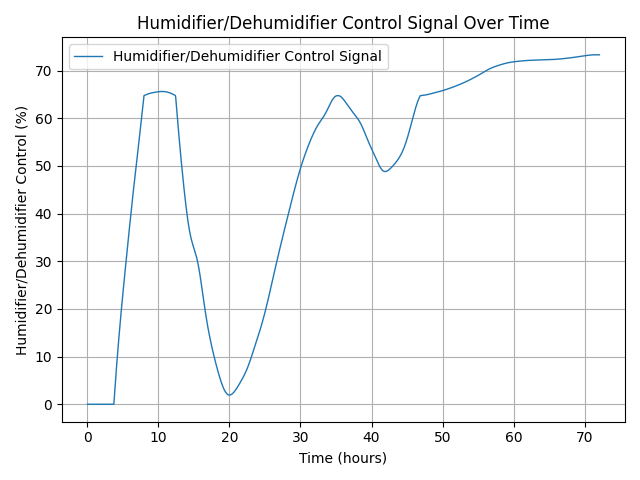
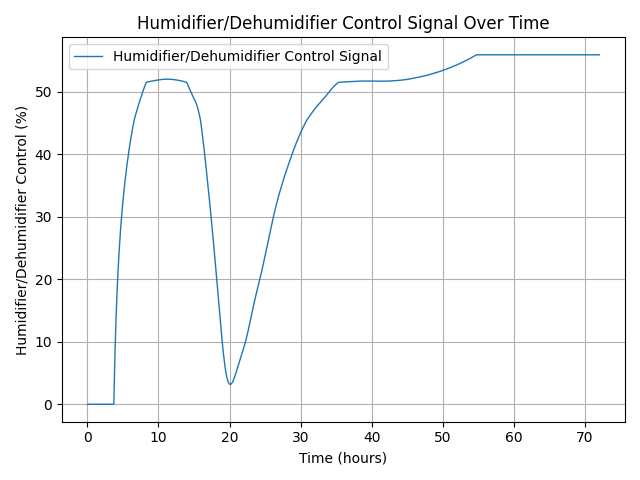
changes?

diff --git a/membership_functions.py b/membership_functions.py
@@ -35,9 +35,9 @@ ac_heater_power['off'] = fuzz.trimf(universes['ac_heater_power'], [-10, 0, 10])
 ac_heater_power['heating'] = fuzz.trapmf(universes['ac_heater_power'], [0, 25, mm.AC_HEATER_POWER_MAX, mm.AC_HEATER_POWER_MAX])
 
 humidifier_dehumidifier_power = ctrl.Consequent(universes['humidifier_dehumidifier_power'], 'humidifier_dehumidifier_power')
-humidifier_dehumidifier_power['dehumidifying'] = fuzz.trapmf(universes['humidifier_dehumidifier_power'], [mm.HUMIDIFIER_DEHUMIDIFIER_POWER_MAX, mm.HUMIDIFIER_DEHUMIDIFIER_POWER_MAX, -10, 0])
+humidifier_dehumidifier_power['dehumidifying'] = 1 - fuzz.trapmf(universes['humidifier_dehumidifier_power'], [-25, 0, mm.HUMIDIFIER_DEHUMIDIFIER_POWER_MAX, mm.HUMIDIFIER_DEHUMIDIFIER_POWER_MAX])
 humidifier_dehumidifier_power['off'] = fuzz.trimf(universes['humidifier_dehumidifier_power'], [-10, 0, 10])
-humidifier_dehumidifier_power['humidifying'] = fuzz.trapmf(universes['humidifier_dehumidifier_power'], [0, 10, mm.HUMIDIFIER_DEHUMIDIFIER_POWER_MAX, mm.HUMIDIFIER_DEHUMIDIFIER_POWER_MAX])
+humidifier_dehumidifier_power['humidifying'] = fuzz.trapmf(universes['humidifier_dehumidifier_power'], [0, 25, mm.HUMIDIFIER_DEHUMIDIFIER_POWER_MAX, mm.HUMIDIFIER_DEHUMIDIFIER_POWER_MAX])
 # Weighted cooling (1.5x importance, but clamped to max 1.0)
 #ac_heater_power['cooling_temp'] = np.minimum(ac_heater_power['cooling'].mf * 1.5, 1.0)
 

diff --git a/fuzzy_rules.py b/fuzzy_rules.py
@@ -41,9 +41,9 @@ humidifier_humidity_rules = [
 ]
 rules.extend(humidifier_humidity_rules)
 
-humidifier_delta_humidity_rules = [
-    ctrl.Rule(delta_hum['decreasing'], humidifier_dehumidifier['humidifying']),
-    ctrl.Rule(delta_hum['stable'], humidifier_dehumidifier['off']),
-    ctrl.Rule(delta_hum['increasing'], humidifier_dehumidifier['dehumidifying'])
-]
+#humidifier_delta_humidity_rules = [
+#    ctrl.Rule(delta_hum['decreasing'], humidifier_dehumidifier['humidifying']),
+#    ctrl.Rule(delta_hum['stable'], humidifier_dehumidifier['off']),
+#    ctrl.Rule(delta_hum['increasing'], humidifier_dehumidifier['dehumidifying'])
+#]
 #rules.extend(humidifier_delta_humidity_rules)
